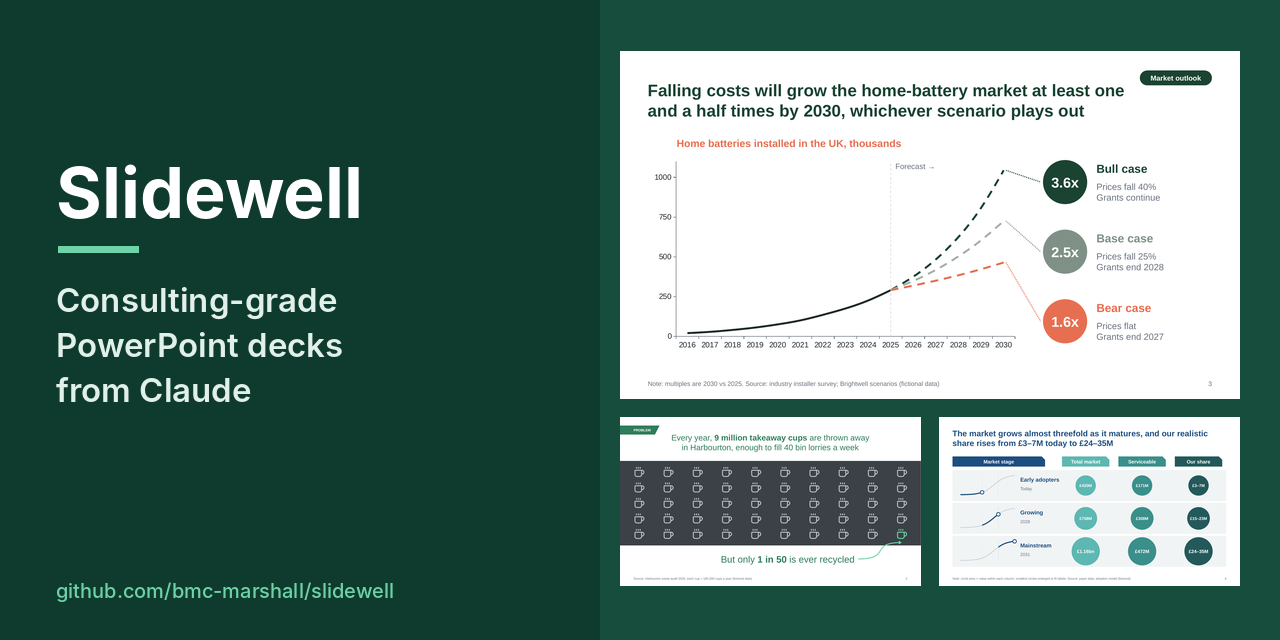
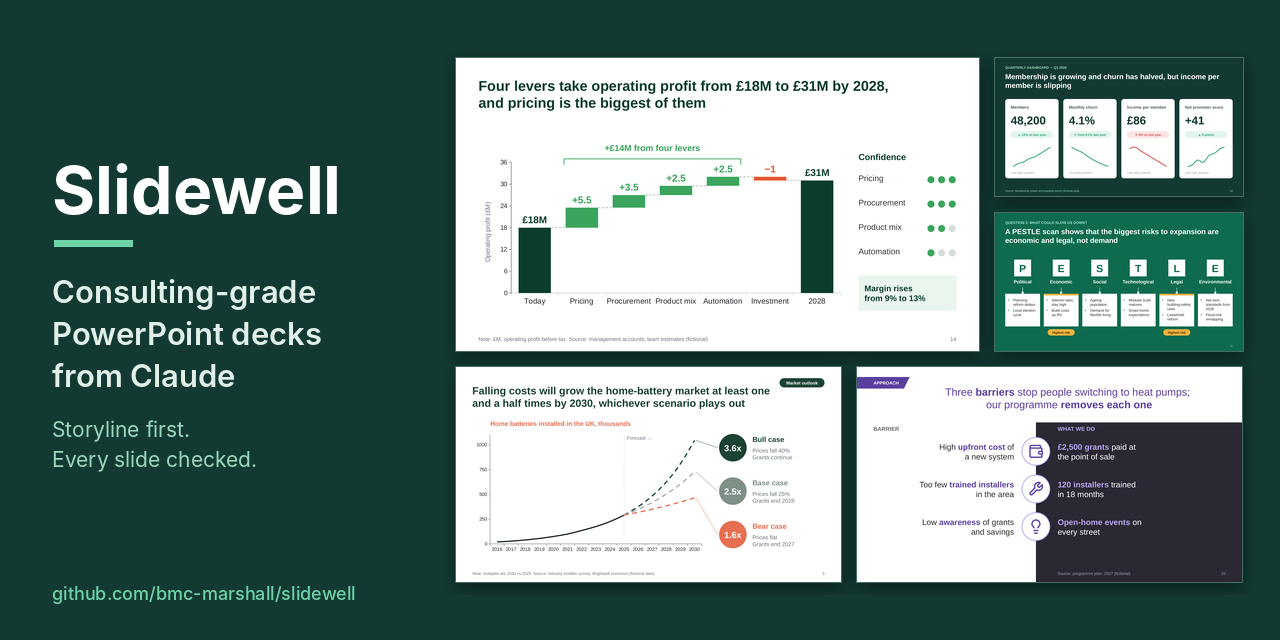
Advert image and README hero from five showcase slides
Claude-Session: https://claude.ai/code/session_01GPhe1fBowUaBgty5oZBYx9

diff --git a/README.md b/README.md
@@ -8,9 +8,9 @@
 
 Give Claude your notes, data or a rough brief. Slidewell asks a few sharp questions, proposes the storyline headline by headline for you to approve, then builds a native, fully editable `.pptx` in your brand or inside your own template, and checks it before you open it.
 
-![Six slides built by Slidewell: an executive summary, a profit waterfall, an options appraisal, impact figures, a phased offer, and a peer comparison chart](docs/images/hero.png)
+![Five slides built by Slidewell: a profit bridge, a KPI dashboard, a PESTLE scan, a scenario forecast, and a barriers-and-solutions split](docs/images/hero.png)
 
-<sub>All slides above are from the example decks in this repo. Every organisation and figure is fictional.</sub>
+<sub>All slides above are from `slidewell/examples/showcase.pptx`, built and checked by Slidewell. Every organisation and figure is fictional.</sub>
 
 ---
 
